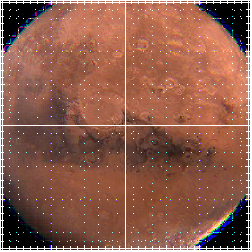
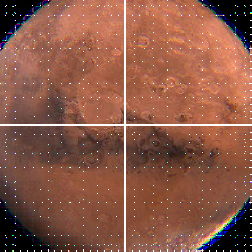
Se comparte

diff --git a/modules/tracer.py b/modules/tracer.py
@@ -1,21 +1,33 @@
 import numpy as np
 import math
+import pandas as pd
 
-def compute_lens_matrix():
+def compute_lens_matrix(f1, f2):
     #A = np.array([[-0.00142039, 915.284], [-0.0012025, 70.8481]]) para lentes gruesas
     AR = np.array([[1/70, 690], [0, 70]])
     AG = np.array([[101/7001, 690], [0, 7001/101]])
     AB = np.array([[104/7004, 690], [0, 7004/104]])
     
-    A = np.array([[[1/70, 101/7001, 104/7004], [690, 690, 690]], [[0, 0, 0], [70, 7001/101, 7004/104]]])
+    #A = np.array([[[1/70, 101/7001, 104/7004], [690, 690, 690]], [[0, 0, 0], [70, 7001/101, 7004/104]]])
+    
+    
+    #------------------- Sistema de lentes delgadas -------------
+    
+    d = f1 + f2
+    A = np.array([[-f2/f1, d], [[0, 0, 0], -f1/f2]])
     
     return A
 
-def triplet():
-    T = np.array([[[0.95193, 0.951955, 0.952031], [22.6353, 22.635,  22.634]], [[-0.000748969, -0.000749235, -0.000750021], [1.03269, 1.03265, 1.03255]]])
+def triplet(f1, f2, f3):
+    #T = np.array([[[0.95193, 0.951955, 0.952031], [22.6353, 22.635,  22.634]], [[-0.000748969, -0.000749235, -0.000750021], [1.03269, 1.03265, 1.03255]]])
+    
+    #------------------- Sistema de lentes delgadas -------------
+    
+    T = np.array([[[1, 1, 1], [0, 0, 0]], [-(f1*f2 + f1*f3 + f2*f3)/(f1*f2*f3), [1, 1, 1]]])
+    
     return T
 
-def ray_tracing(width, height, rayo, so, n1, obj, res, pixels, width_output, height_output, si2, m):
+def ray_tracing(width, height, rayo, so, n1, obj, res, pixels, width_output, height_output, si2, m, f1, f2, f3):
 
     # Iterate over each pixel of the image
     for i in range(width):
@@ -38,11 +50,10 @@ def ray_tracing(width, height, rayo, so, n1, obj, res, pixels, width_output, hei
             si = si2
 
             # Compute lens matrix using parameters nl, R1, R2, and dl
-            A = compute_lens_matrix()
-            T = triplet()
 
             #Output ray vector calculation
             if(m == '0'):
+                A = compute_lens_matrix(f1, f2)
                 # Define propagation matrices after and before the lens
                 P2 = np.array([[[1, 1, 1], [si[0]/n1, si[1]/n1, si[2]/n1]],[[0, 0, 0], [1, 1, 1]]])
                 P1 = np.array([[[1, 1, 1], [so/n1, so/n1, so/n1]],[[0, 0, 0], [1, 1, 1]]])
@@ -57,6 +68,7 @@ def ray_tracing(width, height, rayo, so, n1, obj, res, pixels, width_output, hei
                 res2 = np.einsum('ikj,kj->ij', A, res1)
                 V_salida = np.einsum('ikj,kj->ij', P2, res2)
             elif(m == '1'):
+                T = triplet(f1, f2, f3)
                 P2 = np.array([[[1, 1, 1], [si[0]/n1, si[1]/n1, si[2]/n1]],[[0, 0, 0], [1, 1, 1]]])
                 P1 = np.array([[[1, 1, 1], [so[0]/n1, so[1]/n1, so[2]/n1]],[[0, 0, 0], [1, 1, 1]]])
 

diff --git a/modules/triplet.py b/modules/triplet.py
@@ -32,7 +32,7 @@ def triplet_system():
   d2 = df.loc['divergentLens','triplet']['d']
   d3 = df.loc['planarConvergentLens','triplet']['d']
 
-  so = 18 + (d1+d2+d3)/2 - si2
+  so = 18*2 + (d1+d2+d3)/2 - si2
 
   f1 = np.array(df.loc['convergentLens','triplet']['f'])
   f2 = np.array(df.loc['divergentLens','triplet']['f'])
@@ -54,9 +54,9 @@ def triplet_system():
   pixels = image.load()
 
   #Compute the image with chief ray
-  pixels = ray_tracing(width, height, CHIEF_RAY, so, n1, obj, res, pixels, width_output, height_output, si, m)
+  pixels = ray_tracing(width, height, CHIEF_RAY, so, n1, obj, res, pixels, width_output, height_output, si, m, f1, f2, f3)
 
   #Compute the cummulated image with parallel ray
-  pixels = ray_tracing(width, height, PARALLEL_RAY, so, n1, obj, res, pixels, width_output, height_output, si, m)
+  pixels = ray_tracing(width, height, PARALLEL_RAY, so, n1, obj, res, pixels, width_output, height_output, si, m, f1, f2, f3)
 
   image.save('img/nuevaImagenAberracionCorregida.png', format='PNG')

diff --git a/modules/main.py b/modules/main.py
@@ -20,6 +20,7 @@ def main_system():
 
     f1 = np.array(df.loc['objective2','mainSystem']['f'])
     f2 = np.array(df.loc['eyespace2','mainSystem']['f'])
+    f3 = 0
 
     si1 = (f1*so)/(so-f1)
     so2 = -(si1-(f1+f2))
@@ -37,9 +38,9 @@ def main_system():
     pixels = image.load()
 
     #Compute the image with chief ray
-    pixels = ray_tracing(width, height, CHIEF_RAY, so, n1, obj, res, pixels, width_output, height_output, si2, m)
+    pixels = ray_tracing(width, height, CHIEF_RAY, so, n1, obj, res, pixels, width_output, height_output, si2, m, f1, f2, f3)
 
     #Compute the cummulated image with parallel ray
-    pixels = ray_tracing(width, height, PARALLEL_RAY, so, n1, obj, res, pixels, width_output, height_output, si2, m)
+    pixels = ray_tracing(width, height, PARALLEL_RAY, so, n1, obj, res, pixels, width_output, height_output, si2, m, f1, f2, f3)
 
     image.save('img/nuevaImagen.png', format='PNG')

diff --git a/modules/test.py b/modules/test.py
@@ -57,7 +57,7 @@ for j,i in enumerate(images):
 
 df = pd.read_json("data/lenses.json") 
 
-so = 1320
+"""so = 1320
 
 f1 = np.array(df.loc['objective2','mainSystem']['f'])
 f2 = np.array(df.loc['eyespace2','mainSystem']['f'])
@@ -88,4 +88,20 @@ si = (f*so)/(so-f)
 
 print(si)
 
-print(int([1.5, 1.2]))
+print(int([1.5, 1.2]))"""
+
+"""f1 = np.array(df.loc['objective2','mainSystem']['f'])
+f2 = np.array(df.loc['eyespace2','mainSystem']['f'])
+
+d = f1 + f2
+A = np.array([[-f2/f1, d], [[0, 0, 0], -f1/f2]])
+
+print(A)"""
+
+f1 = np.array(df.loc['convergentLens','triplet']['f'])
+f2 = np.array(df.loc['divergentLens','triplet']['f'])
+f3 = np.array(df.loc['planarConvergentLens','triplet']['f'])
+
+T = np.array([[[1, 1, 1], [0, 0, 0]], [-(f1*f2 + f1*f3 + f2*f3)/(f1*f2*f3), [1, 1, 1]]])
+
+print(T)
